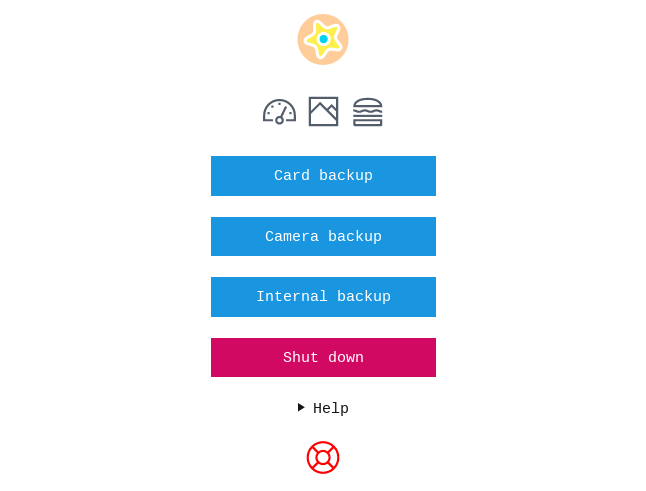
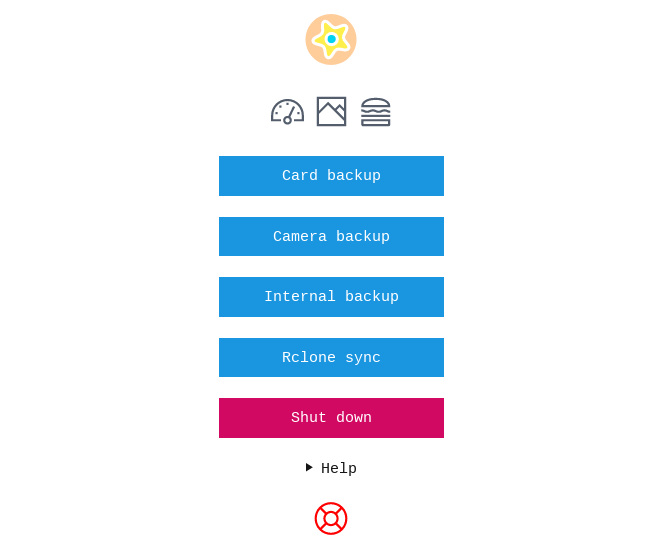
Replace Syncthing with Rclone

Changed region(s): [[0.3096, 0.0305, 0.6811, 0.9776]]

diff --git a/scripts/index.php b/scripts/index.php
@@ -57,6 +57,11 @@
                     <button class="btn btn-primary" name="internalbackup"><?php echo L::internalbackup_btn; ?></button>
 		</form>
             </p>
+	    <p>
+		<form method="post">
+                    <button class="btn btn-primary" name="rclone"><?php echo L::rclone_btn; ?></button>
+		</form>
+            </p>
             <p>
 		<form method="post">
                     <button class="btn btn-error" name="shutdown"><?php echo L::shutdown_btn; ?></button>
@@ -81,6 +86,13 @@
 	    if (isset($_POST['internalbackup']))
 	    {
 		shell_exec('sudo ./internal-backup.sh > /dev/null 2>&1 & echo $!');
+		echo '<script language="javascript">';
+		echo 'alert("'.L::internalbackup_msg.'")';
+		echo '</script>';
+	    }
+	    if (isset($_POST['rclone']))
+	    {
+		shell_exec('sudo ./rclone.sh > /dev/null 2>&1 & echo $!');
 		echo '<script language="javascript">';
 		echo 'alert("'.L::internalbackup_msg.'")';
 		echo '</script>';
